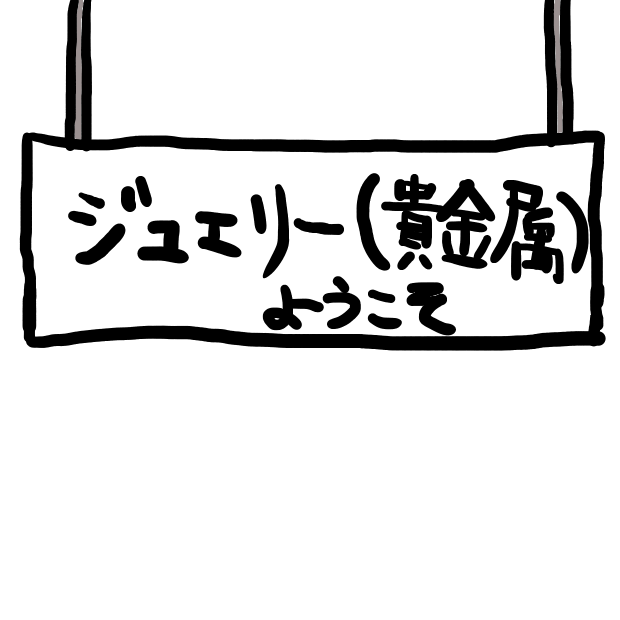
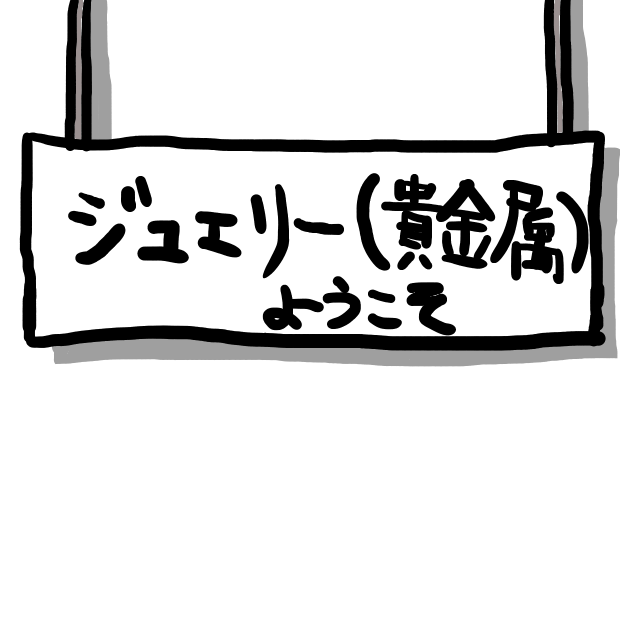
ゲーム開始時テロップ

Changed region(s): [[0.0613, 0.2145, 1.0, 0.6129], [0.1226, 0.0, 0.1839, 0.2452], [0.9194, 0.0, 0.95, 0.2145]]

diff --git a/MainScene.cpp b/MainScene.cpp
@@ -5,7 +5,11 @@ MainScene::MainScene(const InitData& init)
 	:
 	IScene{ init },
 	actors_{},
-	timerEnemySpawn_{}
+	timerEnemySpawn_{},
+	spawnCount_{ 0 },
+	wave_{ 0 },
+	timerReady_{ 2s, StartImmediately::Yes },
+	time_{ StartImmediately::No }
 {
 	actors_.enemies.reserve(128);
 
@@ -14,22 +18,33 @@ MainScene::MainScene(const InitData& init)
 
 void MainScene::update()
 {
+	// ゲーム開始時の演出待ち
+	if (timerReady_.reachedZero() && not time_.isRunning())
+	{
+		time_.start();
+	}
+
 	actors_.kobushi.update();
 
 	actors_.suishou.update();
 
 	// 敵スポーン
-	if (not timerEnemySpawn_.isRunning())
+	if (time_.isRunning())
 	{
-		timerEnemySpawn_.restart(Duration{ SecondsF{ Random(0.5, 2.0) }});
+		if (not timerEnemySpawn_.isRunning())
+		{
+			timerEnemySpawn_.restart(Duration{ SecondsF{ Random(0.5, 2.0) } });
 
-		if (RandomBool())
-		{
-			actors_.enemies.push_back(Enemy{ Scene::Rect().rightCenter() + Vec2{ 0, Random(-250, 250) }, &actors_ });
-		}
-		else
-		{
-			actors_.enemies.push_back(Enemy{ Scene::Rect().leftCenter() + Vec2{ 0, Random(-250, 250) }, &actors_ });
+			if (RandomBool())
+			{
+				actors_.enemies.push_back(Enemy{ Scene::Rect().rightCenter() + Vec2{ 0, Random(-250, 250) }, &actors_ });
+			}
+			else
+			{
+				actors_.enemies.push_back(Enemy{ Scene::Rect().leftCenter() + Vec2{ 0, Random(-250, 250) }, &actors_ });
+			}
+
+			spawnCount_ += 1;
 		}
 	}
 
@@ -95,6 +110,14 @@ void MainScene::draw() const
 
 	// 水晶
 	actors_.suishou.draw();
+
+	// ゲーム開始時の「追い払え」
+	if (timerReady_.isRunning())
+	{
+		TextureAsset(U"oiharae")
+			.resized(250 * (1.0 + 0.1 * Periodic::Sine1_1(0.7s)))
+			.drawAt(actors_.suishou.pos() + Vec2{ 160, -130 });
+	}
 
 	// 敵
 	for (const auto& e : actors_.enemies)

diff --git a/Enemy.cpp b/Enemy.cpp
@@ -59,11 +59,11 @@ void Enemy::draw() const
 			.rotated(timeHit_.sF() * 16.0)
 			.drawAt(pos_ + RandomVec2(50.0 * Saturate(1.0 - timeHit_.sF() / 0.3)), color);
 
-		if (timeHit_ < 0.8s)
+		if (timeHit_ < 0.8s && serifuPos_)
 		{
 			TextureAsset(serifuAsset_)
 				.resized(180 * (0.7 + 0.7 * Periodic::Sine0_1(0.25s)))
-				.drawAt(serifuPos_ + Vec2{ 0, -50 } + RandomVec2(2.0));
+				.drawAt(*serifuPos_ + Vec2{ 0, -50 } + RandomVec2(2.0));
 		}
 	}
 
@@ -83,12 +83,12 @@ Optional<RectF> Enemy::collision() const
 
 void Enemy::hit(Kobushi& kobushi)
 {
-	hit_();
+	hit_(true);
 }
 
 void Enemy::hit(Suishou& suishou)
 {
-	hit_();
+	hit_(false);
 }
 
 bool Enemy::isOffscreen() const
@@ -106,10 +106,12 @@ bool Enemy::active() const
 	return state_ == EnemyState::Active;
 }
 
-void Enemy::hit_()
+void Enemy::hit_(bool enableSerifu)
 {
 	state_ = EnemyState::Dead;
 	timeHit_.start();
 	moveDead_ = Circular{ Random(400.0, 800.0), Random(Math::TwoPi) };
+
 	serifuPos_ = pos_;
+	if (not enableSerifu) serifuPos_ = none;
 }

diff --git a/Enemy.h b/Enemy.h
@@ -32,7 +32,7 @@ public:
 	bool active() const;
 
 private:
-	void hit_();
+	void hit_(bool enableSerifu);
 
 	Actors* actors_;
 	Vec2 pos_;
@@ -42,6 +42,6 @@ private:
 	EnemyState state_;
 	Stopwatch timeHit_;
 	String serifuAsset_;
-	Vec2 serifuPos_;
+	Optional<Vec2> serifuPos_;
 };
 

diff --git a/MainScene.h b/MainScene.h
@@ -12,4 +12,8 @@ public:
 private:
 	Actors actors_;
 	Timer timerEnemySpawn_;
+	int32 spawnCount_;
+	int32 wave_;
+	Timer timerReady_;
+	Stopwatch time_;
 };

diff --git a/Main.cpp b/Main.cpp
@@ -23,6 +23,7 @@ void Main()
 	TextureAsset::Register(U"yabai", U"image/yabai.png");
 	TextureAsset::Register(U"abunai", U"image/abunai.png");
 	TextureAsset::Register(U"kanban", U"image/kanban.png");
+	TextureAsset::Register(U"oiharae", U"image/oiharae.png");
 	TextureAsset::Register(U"s1", U"image/s1.png");
 	TextureAsset::Register(U"s2", U"image/s2.png");
 	TextureAsset::Register(U"s3", U"image/s3.png");